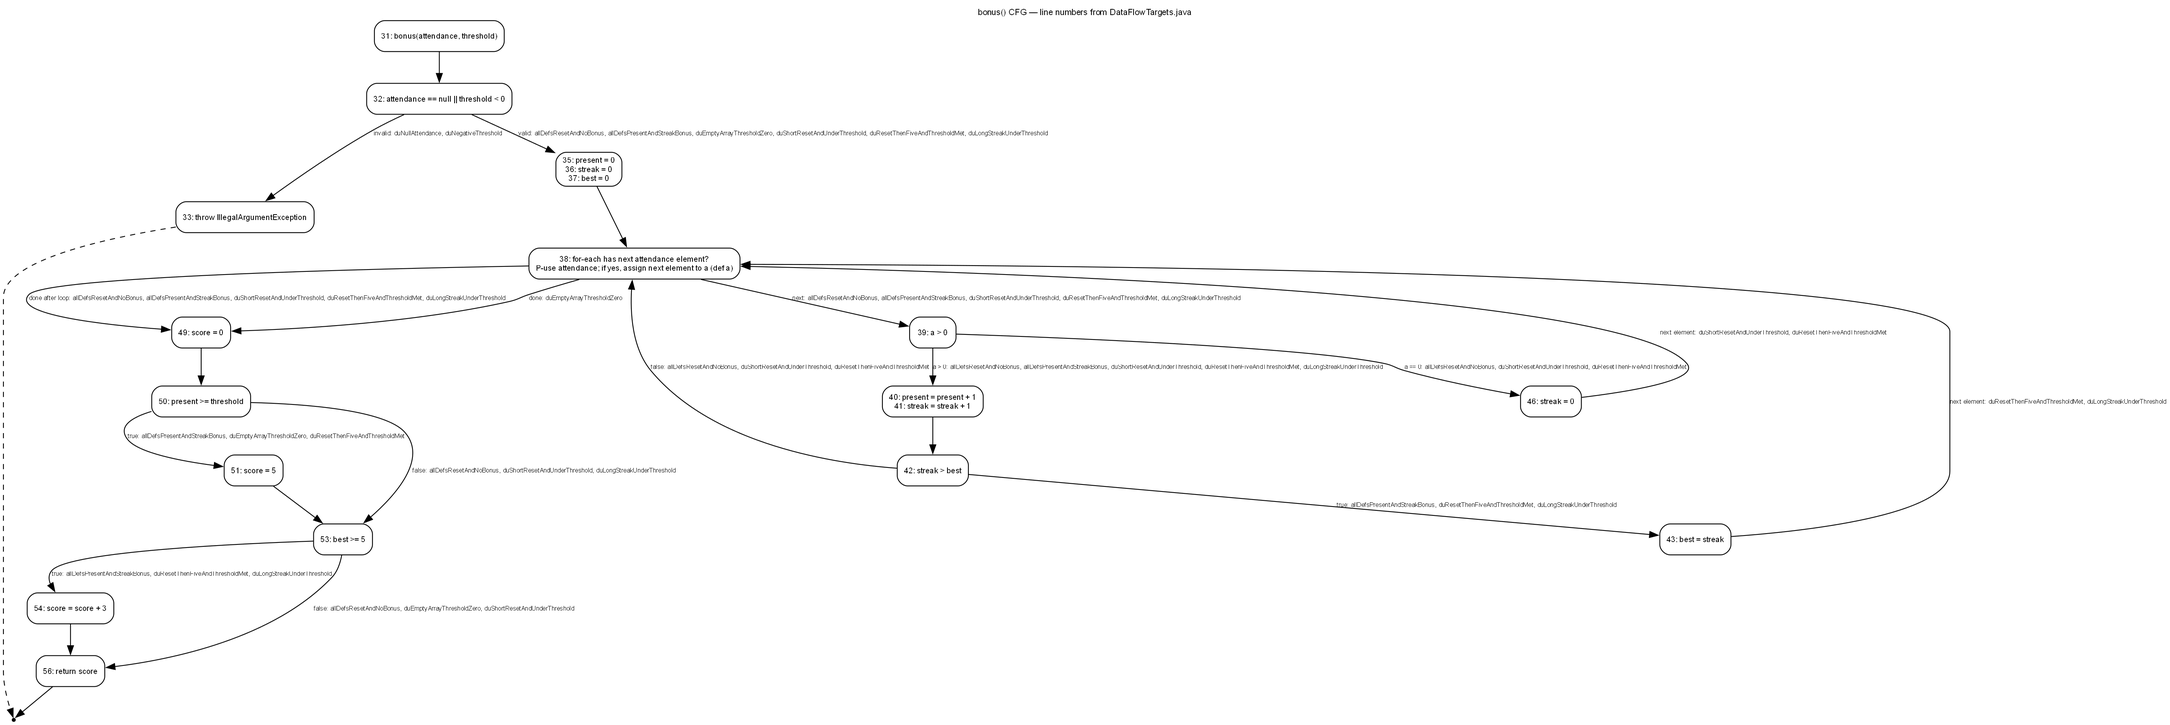
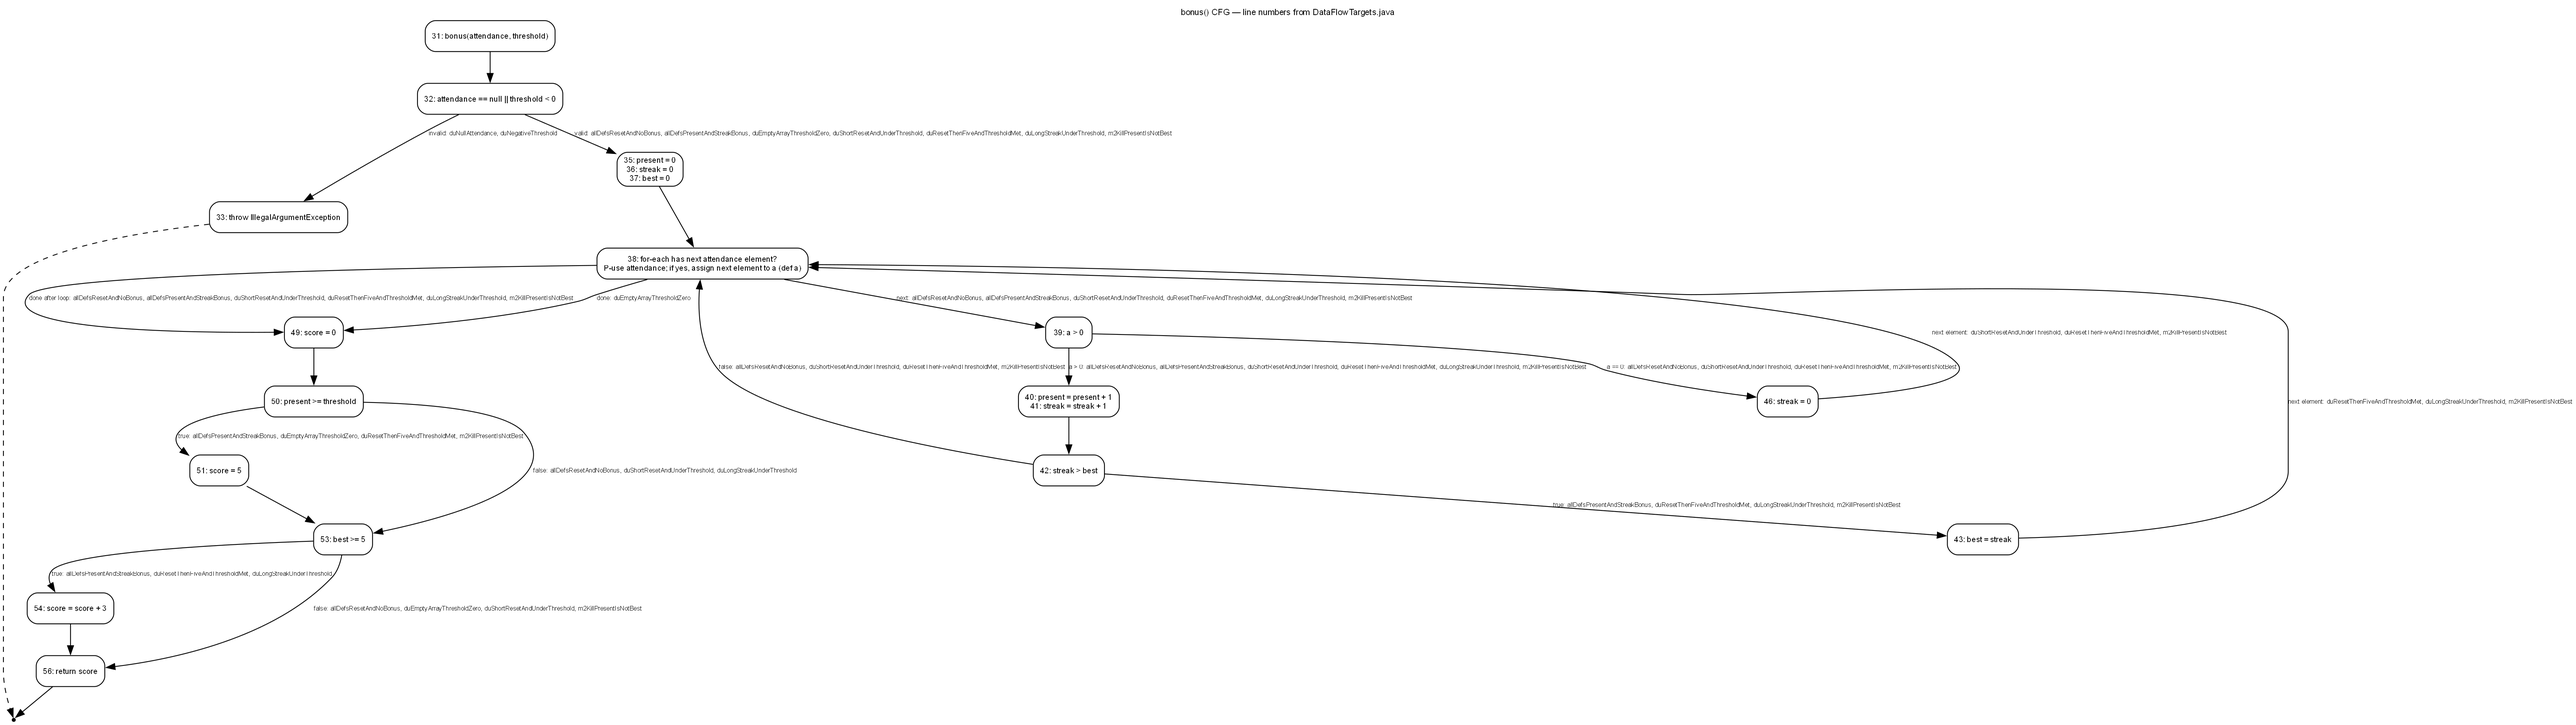
Record fault seeding and final verification

diff --git a/src/test/java/mn/edu/must/sqat/BonusTest.java b/src/test/java/mn/edu/must/sqat/BonusTest.java
@@ -55,4 +55,10 @@ class BonusTest {
     void duLongStreakUnderThreshold() {
         assertEquals(3, DataFlowTargets.bonus(new int[]{1, 1, 1, 1, 1}, 6));
     }
+
+    @Test
+    @DisplayName("m2Kill_presentIsNotBest: lines 43, 50-T, 53-F")
+    void m2KillPresentIsNotBest() {
+        assertEquals(5, DataFlowTargets.bonus(new int[]{1, 1, 0, 1, 1, 1}, 5));
+    }
 }
